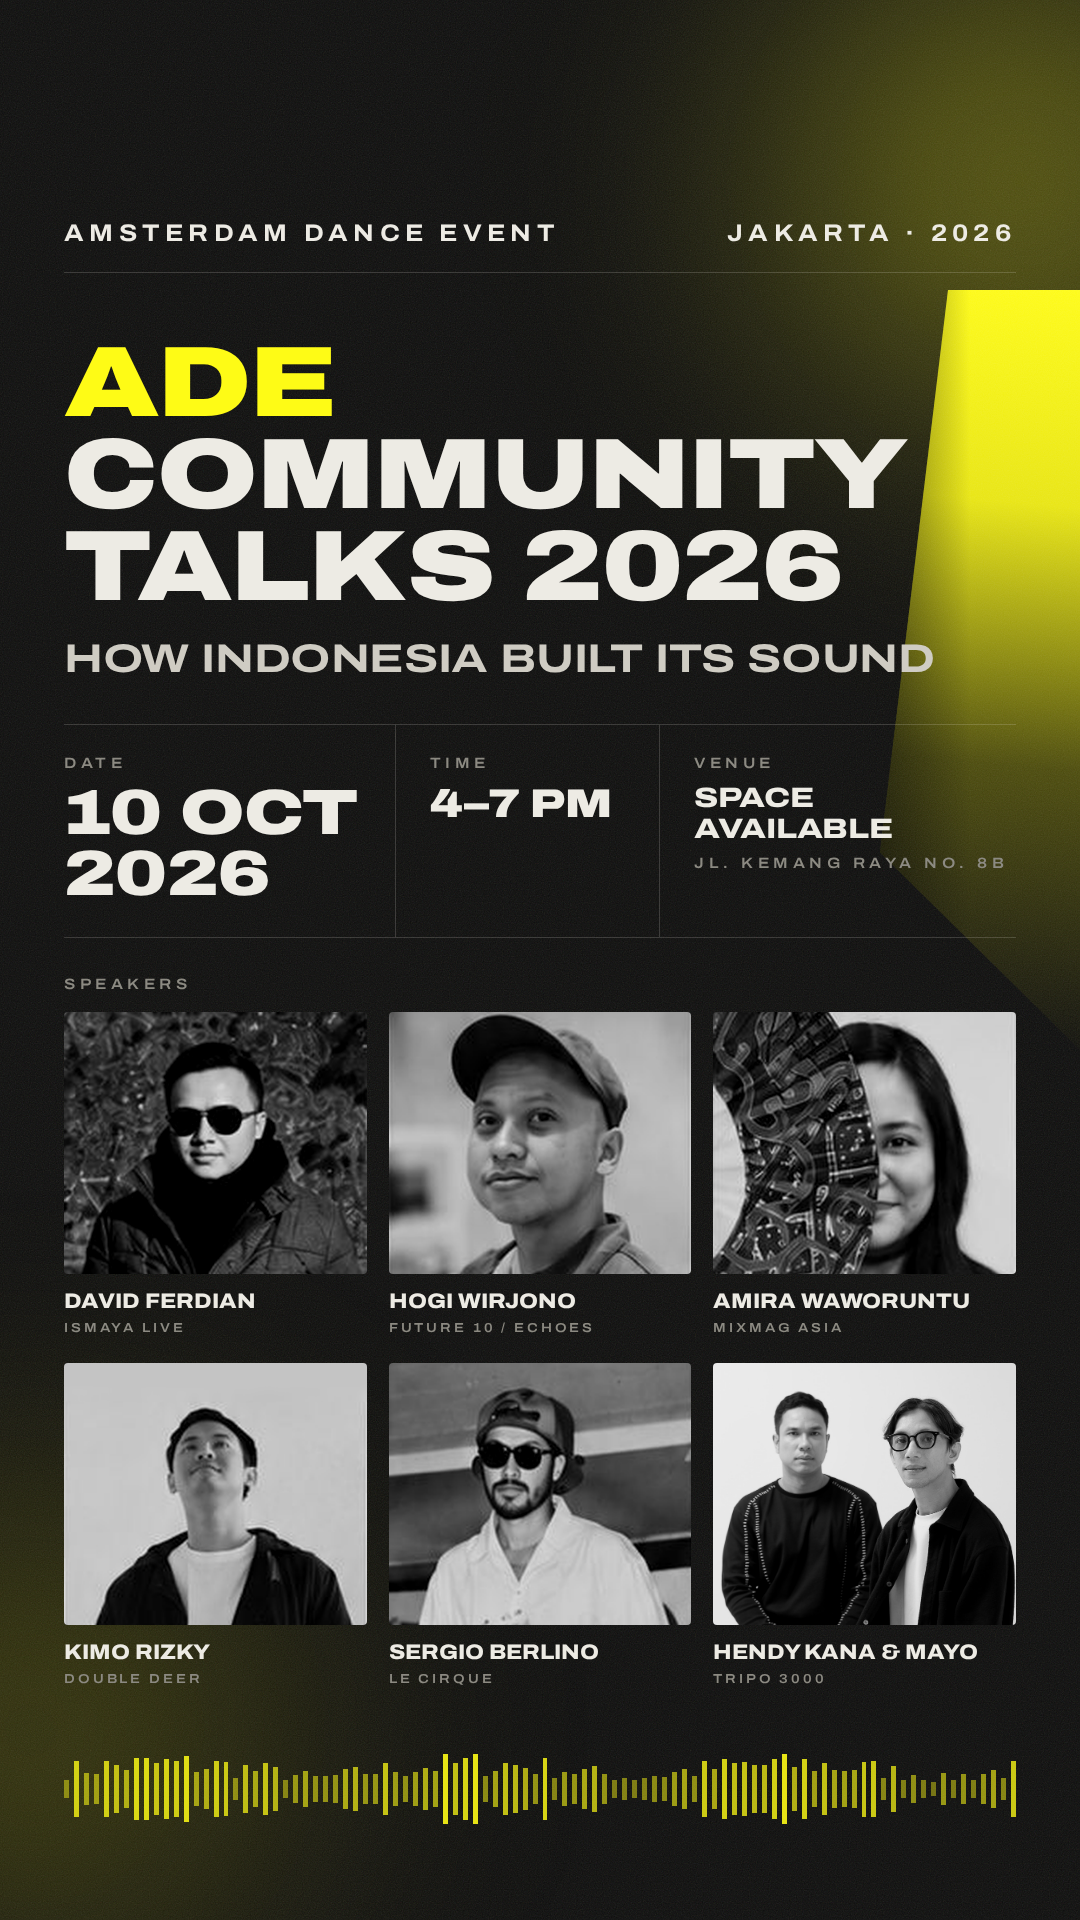
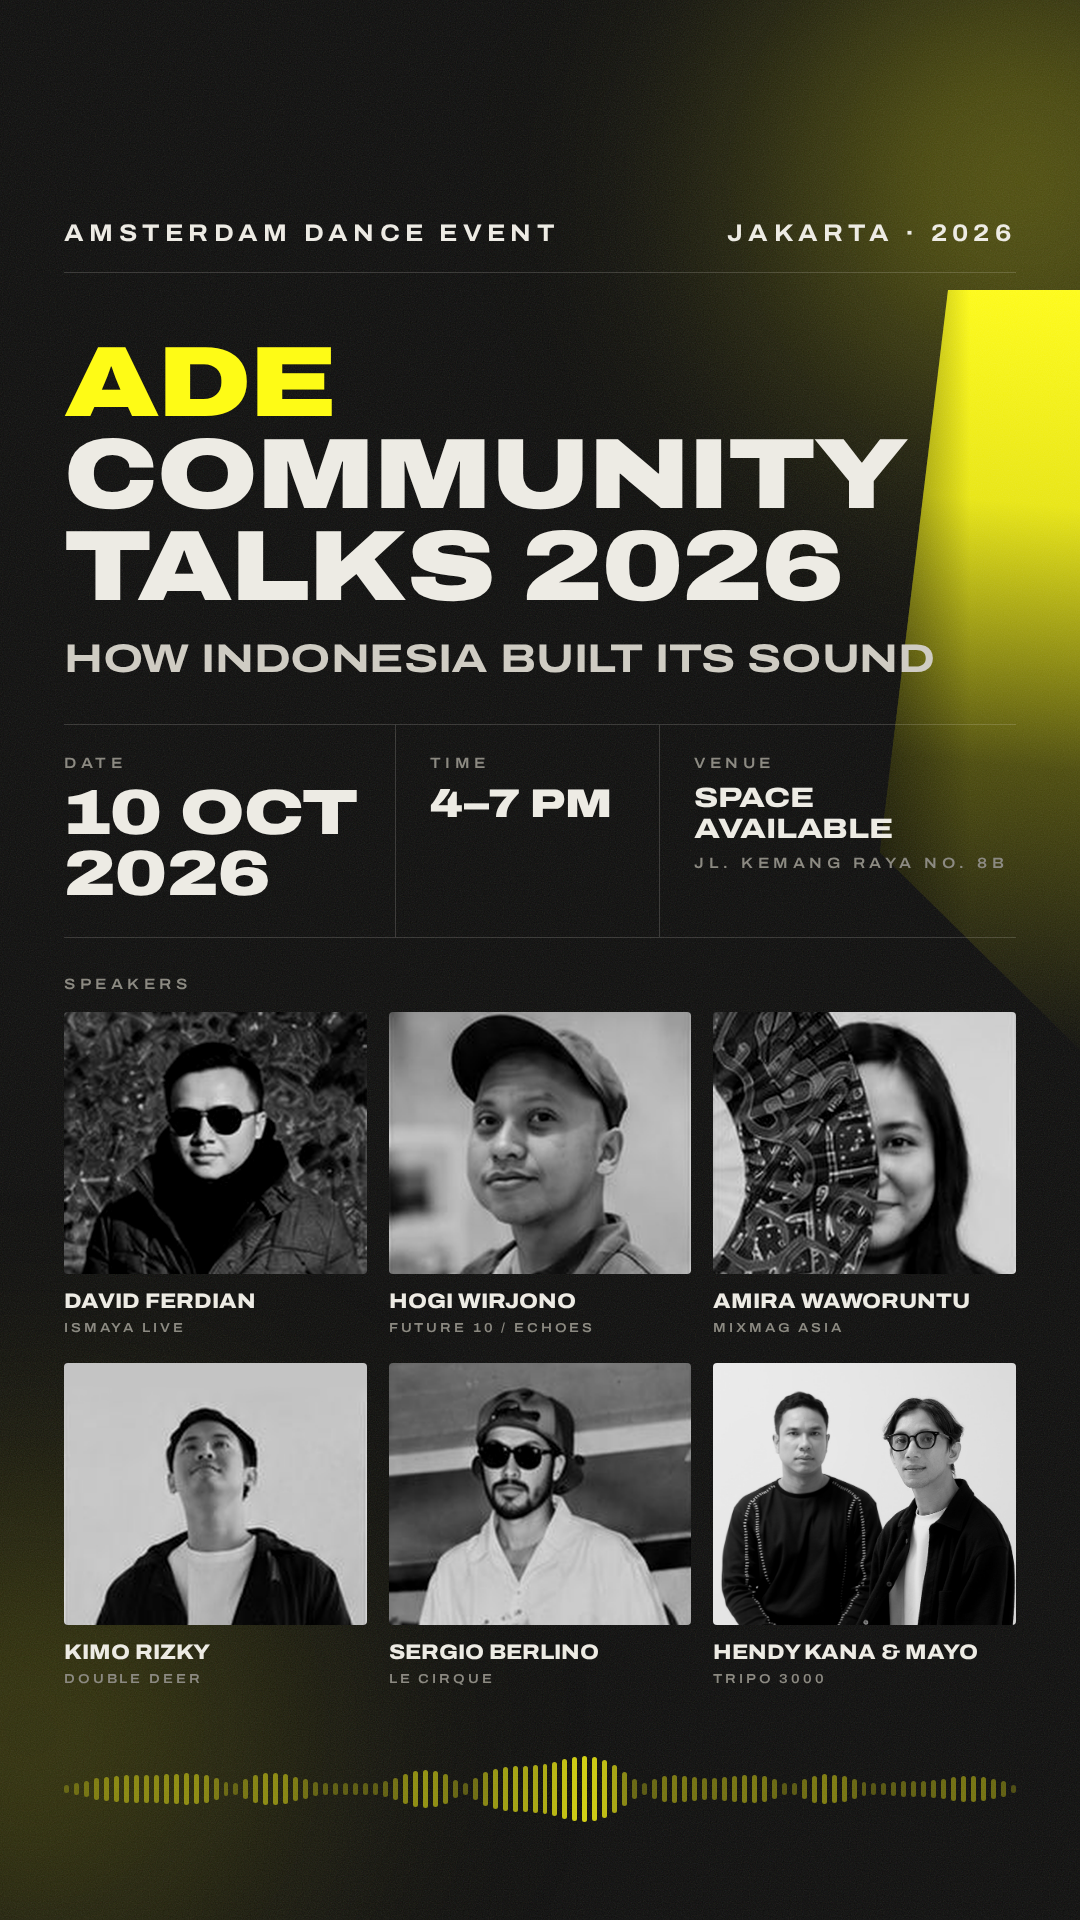
ADE flyer: restore original sound wave
Claude-Session: https://claude.ai/code/session_01Sc5gF2HRFqjLpMQDrx7aqZ

Changed region(s): [[0.0611, 0.9062, 0.9472, 0.9688]]

diff --git a/events/ade-community-talks-2026/wave.js b/events/ade-community-talks-2026/wave.js
@@ -1,13 +1,9 @@
-// Square-ended bars with irregular, audio-like heights (seeded, so every render is identical).
 document.querySelectorAll('.wave').forEach(w => {
-  let seed = 7;
-  const rand = () => (seed = (seed * 16807) % 2147483647) / 2147483647;
   for (let i = 0; i < 96; i++) {
     const x = i / 95;
-    const body = .35 + .65 * Math.abs(Math.sin(x * 9.5 + .6));
-    const h = Math.min(1, Math.max(.06, body * (.25 + rand() * .85)));
+    const h = Math.max(.08, Math.abs(Math.sin(x*21)*.55 + Math.sin(x*7.3+1)*.35 + Math.sin(x*53)*.18)) * Math.sin(Math.PI*x)**.6;
     const b = document.createElement('i');
-    b.style.height = (6 + h * 64) + 'px'; b.style.opacity = (.35 + h * .55).toFixed(2);
+    b.style.height = (8 + h*62) + 'px'; b.style.opacity = (.25 + h*.6).toFixed(2);
     w.appendChild(b);
   }
 });

diff --git a/events/ade-community-talks-2026/modern.css b/events/ade-community-talks-2026/modern.css
@@ -25,7 +25,7 @@ body { position: relative; font-family: 'Archivo', sans-serif; }
 .lead { font-size: 26px; line-height: 1.4; color: var(--soft); }
 
 .wave { height: 70px; display: flex; align-items: center; gap: 5px; }
-.wave i { flex: 1; background: var(--y); border-radius: 0; }
+.wave i { flex: 1; background: var(--y); border-radius: 3px; }
 
 .facts { display: grid; grid-template-columns: 1.25fr 1fr 1.35fr; border-top: 1px solid var(--line); border-bottom: 1px solid var(--line); }
 .facts > div { padding: 30px 0 32px; }
